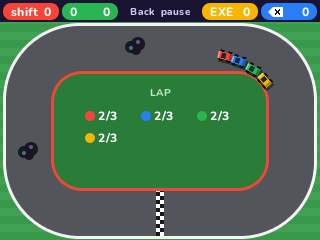
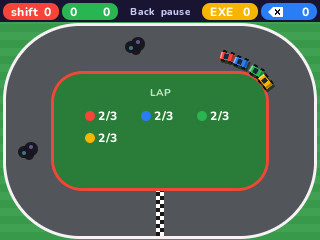
4 Players: each game's key under the countdown, and fair starts
During 3, 2, 1 the game's key shows under the countdown (Tap dash, Hold turn left, Hold drive Let go fire...). Four or six cars start in two rows with their keys on either side, and the tanks' walls stand clear of every starting place, which the tests now check for every layout and mode.

Changed region(s): [[0.6562, 0.2042, 0.875, 0.3792]]

diff --git a/games/fourplayer/src/g_tanks.c b/games/fourplayer/src/g_tanks.c
@@ -13,9 +13,9 @@ typedef struct {
   int16_t x, y, w, h;
 } rect_t;
 static const rect_t LAYOUT[3][7] = {
-  {{152, 86, 16, 90}, {115, 123, 90, 16}, {70, 72, 26, 14}, {224, 72, 26, 14}, {70, 190, 26, 14}, {224, 190, 26, 14}},
-  {{100, 62, 14, 48}, {206, 62, 14, 48}, {100, 154, 14, 48}, {206, 154, 14, 48}, {145, 116, 30, 30}},
-  {{80, 70, 18, 18}, {151, 70, 18, 18}, {222, 70, 18, 18}, {80, 174, 18, 18}, {151, 174, 18, 18}, {222, 174, 18, 18},
+  {{152, 86, 16, 90}, {115, 123, 90, 16}, {84, 76, 26, 14}, {210, 76, 26, 14}, {84, 172, 26, 14}, {210, 172, 26, 14}},
+  {{112, 66, 14, 44}, {194, 66, 14, 44}, {112, 152, 14, 44}, {194, 152, 14, 44}, {145, 116, 30, 30}},
+  {{92, 74, 18, 18}, {151, 70, 18, 18}, {210, 74, 18, 18}, {92, 170, 18, 18}, {151, 174, 18, 18}, {210, 170, 18, 18},
    {120, 122, 80, 18}},
 };
 static const rect_t *map;
@@ -31,6 +31,7 @@ static struct {
   int32_t born;
 } sh[NSH];
 
+static void push_out(body_t *b);
 static void start(void) {
   int k = rn(3);
   map = LAYOUT[k], nmap = 0;
@@ -39,6 +40,7 @@ static void start(void) {
     float s = seat(p);
     t[p].b = (body_t){160 + fcos(s) * 122, 131 + fsin(s) * 82, 0, 0};
     if (np == 3 && p == 2) t[p].b.y = 214;
+    push_out(&t[p].b);
     t[p].a = fatan2(131 - t[p].b.y, 160 - t[p].b.x), t[p].shot_t = -10000, t[p].dead_t = -1;
   }
   for (int i = 0; i < NSH; i++) sh[i].own = -1;
@@ -194,7 +196,7 @@ static int bot(int p) {
 }
 #endif
 
-const game_t g_tanks = {"Tanks", "Tanks",
+const game_t g_tanks = {"Tanks", "Tanks", "Hold  drive    Let go  fire",
                         "Your tank turns on the spot. Hold your key to drive, let go to fire. Shells bounce off the "
                         "walls. One hit and you're out: the last tank left takes the round.",
                         1, start, step, draw, icon BOT(bot)};

diff --git a/games/fourplayer/src/g_race.c b/games/fourplayer/src/g_race.c
@@ -40,8 +40,8 @@ static void start(void) {
   for (int i = 0, k = 0; i < 3; i++)
     if (i != skip) oil[k][0] = SPOT[i][0] + rr(-30, 30) * (i == 0), oil[k][1] = SPOT[i][1] + rr(-22, 22) * (i > 0), k++;
   for (int p = 0; p < np; p++) {
-    int row = p / 3, lane = p % 3, lanes = np < 3 ? np : 3;
-    c[p].x = 148 - row * 22 - lane * 3, c[p].y = 212 + (lane - (lanes - 1) / 2.0f) * 16;
+    int lanes = np <= 3 ? np : (np + 1) / 2, row = p / lanes, lane = p % lanes; /* (two rows from 4 cars) */
+    c[p].x = 148 - row * 22 - lane * 3, c[p].y = 212 + (lane - (lanes - 1) / 2.0f) * 17;
     c[p].h = c[p].va = 0, c[p].s = 0, c[p].oil_t = -10000, c[p].bump_t = -10000;
     c[p].last_a = fatan2(c[p].y - MY, c[p].x - MX), c[p].prog = PI / 2 - c[p].last_a;
   }
@@ -144,7 +144,7 @@ static void draw(void) {
     float h = c[p].h;
     if (rt - c[p].oil_t < 550) h += (rt - c[p].oil_t) * 0.012f; /* a spin on the oil */
     car(p, c[p].x, c[p].y, h);
-    tag_by(p, c[p].x - 6, c[p].y, -1);
+    tag_by(p, c[p].x + (c[p].x > 140 ? 6 : -6), c[p].y, c[p].x > 140 ? 1 : -1); /* (the front row's ahead of it) */
   }
 }
 
@@ -164,7 +164,7 @@ static int bot(int p) {
 }
 #endif
 
-const game_t g_race = {"Racing", "Racing",
+const game_t g_race = {"Racing", "Racing", "Hold  turn left",
                        "Your car drives itself. Hold your key to turn left: every bend turns left. Grass slows you, oil "
                        "spins you. Three laps: the first one home takes the round.",
                        0, start, step, draw, icon BOT(bot)};

diff --git a/games/fourplayer/tests/rules/tanks.c b/games/fourplayer/tests/rules/tanks.c
@@ -61,6 +61,21 @@ void rules_tanks(void) {
   run(0, 100);
   CHECK(gone[0] && WINNER == 1, "tanks: your own shell can hit you");
 
+  bool clear = true; /* every layout, every mode: nobody starts against a wall */
+  for (int m = 0; m < 5; m++)
+    for (int k = 0; k < 30; k++) {
+      app_test_round(m, G_TANKS);
+      for (int p = 0; p < np; p++) {
+        body_t b = t[p].b;
+        push_out(&b);
+        clear &= b.x == t[p].b.x && b.y == t[p].b.y;
+        for (int i = 0; i < nmap; i++)
+          clear &= !(t[p].b.x > map[i].x - TR - 2 && t[p].b.x < map[i].x + map[i].w + TR + 2 &&
+                     t[p].b.y > map[i].y - TR - 2 && t[p].b.y < map[i].y + map[i].h + TR + 2);
+      }
+    }
+  CHECK(clear, "tanks: no tank starts against a wall");
+
   app_test_round(M2, G_TANKS); /* the walls */
   t[0].b = (body_t){map[0].x + map[0].w / 2.0f, map[0].y + map[0].h / 2.0f, 0, 0};
   app_test_step(0);

diff --git a/games/fourplayer/src/app.c b/games/fourplayer/src/app.c
@@ -365,6 +365,9 @@ static void countdown(int32_t left) { /* 3, 2, 1 */
   int k = (int)(left % 667);
   disc_a(160, 128, 34, INK, 200);
   say(&np_font_title, 160, 136, s, k > 560 ? GOLD : WHITE);
+  int w = gfx_text_width(&np_font_body, G()->hint) + 24;
+  gfx_rrect(160 - w / 2, 170, w, 22, 11, INK, 210);
+  gfx_text_center(&np_font_body, 160, 185, G()->hint, WHITE, 256);
 }
 
 static void pips(int x, int y, int s, bool pop) { /* a side's rounds: won ones filled */

diff --git a/games/fourplayer/src/g_gravity.c b/games/fourplayer/src/g_gravity.c
@@ -127,7 +127,7 @@ static int bot(int p) {
 }
 #endif
 
-const game_t g_gravity = {"Gravity Run", "Gravity",
+const game_t g_gravity = {"Gravity Run", "Gravity", "Tap  flip",
                           "You run on your own. Tap your key to flip your gravity, from the floor to the ceiling and "
                           "back. Fall through a hole and you're out: the last runner left takes the round.",
                           1, start, step, draw, icon BOT(bot)};

diff --git a/games/fourplayer/src/g_frog.c b/games/fourplayer/src/g_frog.c
@@ -131,7 +131,7 @@ static int bot(int p) {
 }
 #endif
 
-const game_t g_frog = {"Frog Jump", "Frogs",
+const game_t g_frog = {"Frog Jump", "Frogs", "Hold  gather    Let go  jump",
                        "Hold your key to gather a jump: the ring shows where you'll land. Let go to jump. Miss the "
                        "lily pads and you swim back. The first frog across takes the round.",
                        0, start, step, draw, icon BOT(bot)};

diff --git a/games/fourplayer/src/g_snakes.c b/games/fourplayer/src/g_snakes.c
@@ -174,7 +174,7 @@ static int bot(int p) {
 }
 #endif
 
-const game_t g_snakes = {"Snakes", "Snakes",
+const game_t g_snakes = {"Snakes", "Snakes", "Tap  turn right",
                          "Your snake never stops. Tap your key to turn right. Stars make you longer. Hit a wall or a "
                          "snake, yours too, and you're out: the last snake left takes the round.",
                          1, start, step, draw, icon BOT(bot)};

diff --git a/games/fourplayer/src/g_fish.c b/games/fourplayer/src/g_fish.c
@@ -156,7 +156,7 @@ static int bot(int p) {
 }
 #endif
 
-const game_t g_fish = {"Grab the Fish", "Fish",
+const game_t g_fish = {"Grab the Fish", "Fish", "Tap  swipe",
                        "Things jump out of the pond. Tap your key to swipe: the first paw on a goldfish keeps it. Swipe "
                        "at anything else and you're dizzy. Three goldfish take the round.",
                        0, start, step, draw, icon BOT(bot)};

diff --git a/games/fourplayer/src/g_soccer.c b/games/fourplayer/src/g_soccer.c
@@ -193,7 +193,7 @@ static int bot(int p) {
 }
 #endif
 
-const game_t g_soccer = {"Soccer", "Soccer",
+const game_t g_soccer = {"Soccer", "Soccer", "Tap  dash",
                          "Your arrow spins. Tap your key to dash where it points and hit the ball. Two sides: the first "
                          "goal takes the round. With three or four, let one in and you're out.",
                          1, start, step, draw, icon BOT(bot)};

diff --git a/games/fourplayer/src/g_balloon.c b/games/fourplayer/src/g_balloon.c
@@ -109,7 +109,7 @@ static int bot(int p) {
 }
 #endif
 
-const game_t g_balloon = {"Balloons", "Balloons",
+const game_t g_balloon = {"Balloons", "Balloons", "Tap  pump",
                           "Tap your key to pump. Each balloon bursts at its own size, and nobody knows which. After 10 "
                           "seconds the biggest balloon still whole takes the round.",
                           0, start, step, draw, icon BOT(bot)};

diff --git a/games/fourplayer/src/g_paint.c b/games/fourplayer/src/g_paint.c
@@ -118,7 +118,7 @@ static int bot(int p) {
 }
 #endif
 
-const game_t g_paint = {"Paint", "Paint",
+const game_t g_paint = {"Paint", "Paint", "Tap  curve the other way",
                         "Your roller never stops and always curves. Tap your key to curve the other way. After 30 "
                         "seconds, the most floor in your colour takes the round.",
                         0, start, step, draw, icon BOT(bot)};

diff --git a/games/fourplayer/src/g_sumo.c b/games/fourplayer/src/g_sumo.c
@@ -120,7 +120,7 @@ static int bot(int p) {
 }
 #endif
 
-const game_t g_sumo = {"Sumo", "Sumo",
+const game_t g_sumo = {"Sumo", "Sumo", "Tap  dash",
                        "Your arrow spins. Tap your key to dash where it points: the spin turns the other way. Push the "
                        "others into the sea. The last one on the ice takes the round.",
                        1, start, step, draw, icon BOT(bot)};
